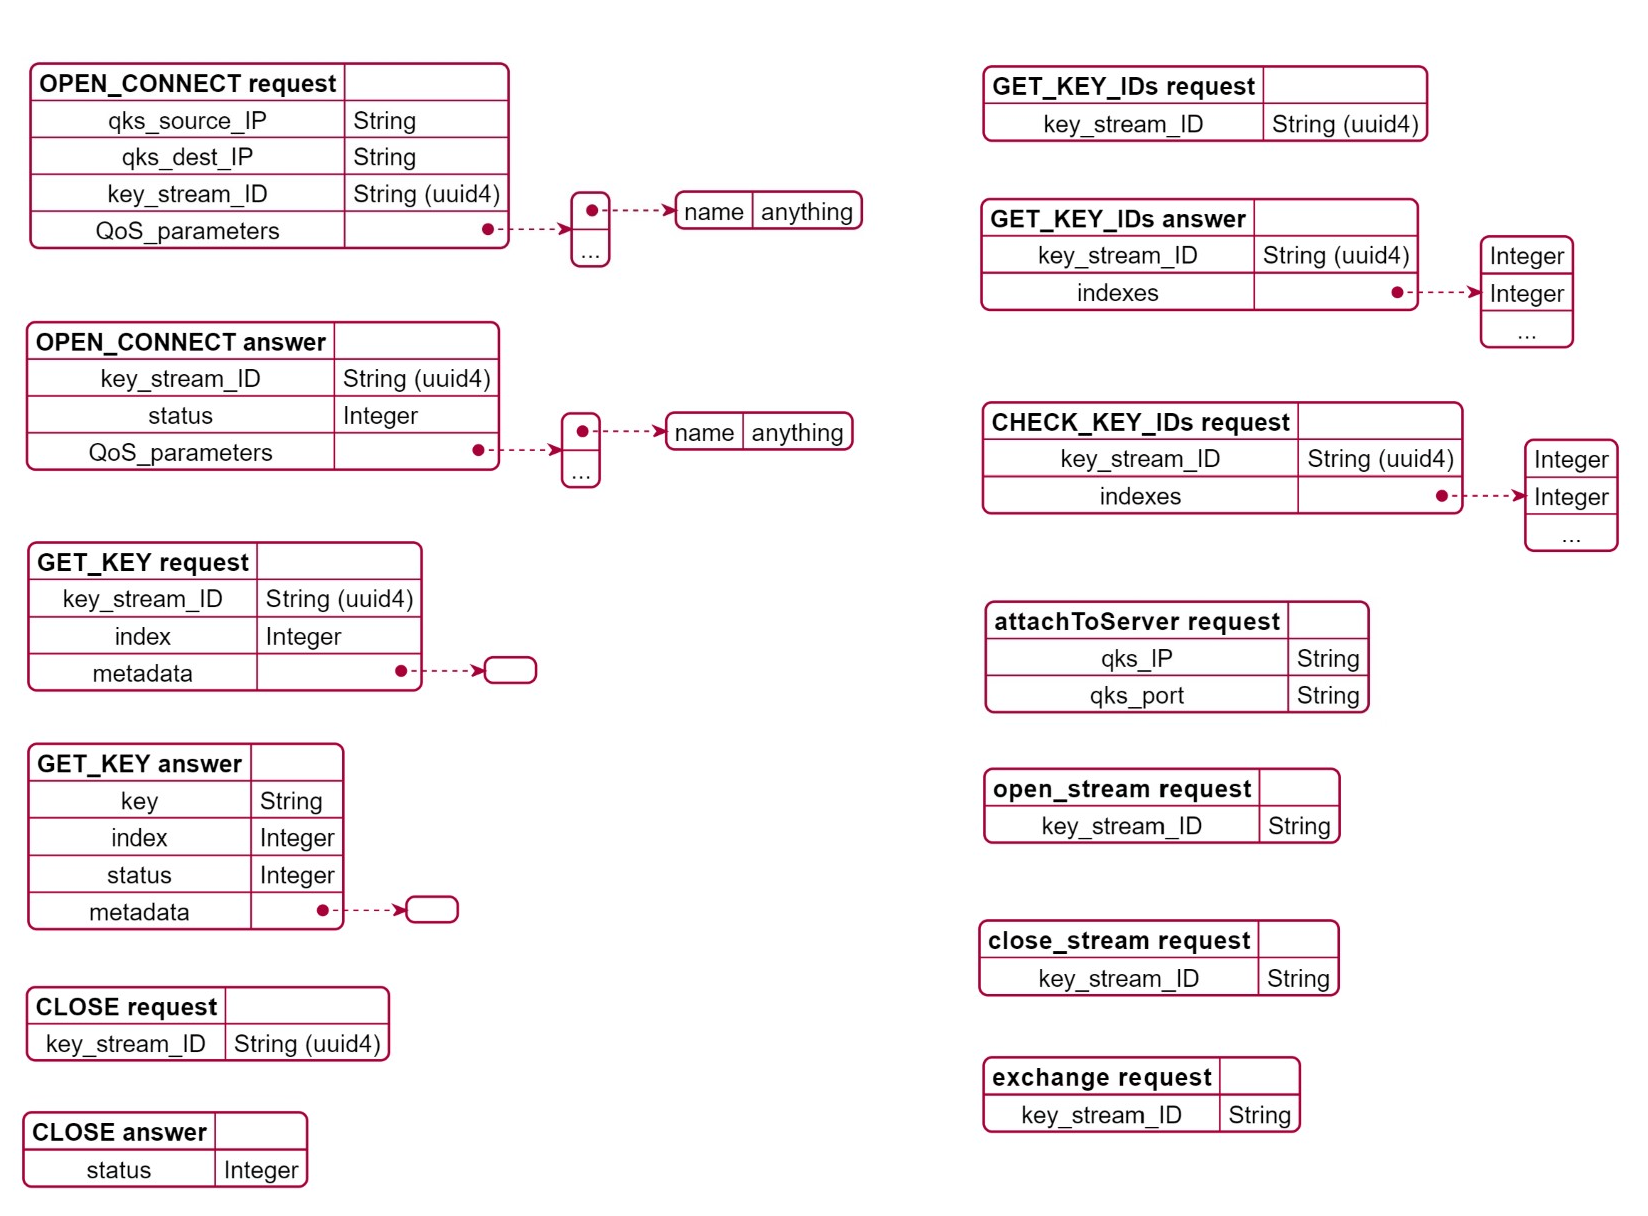
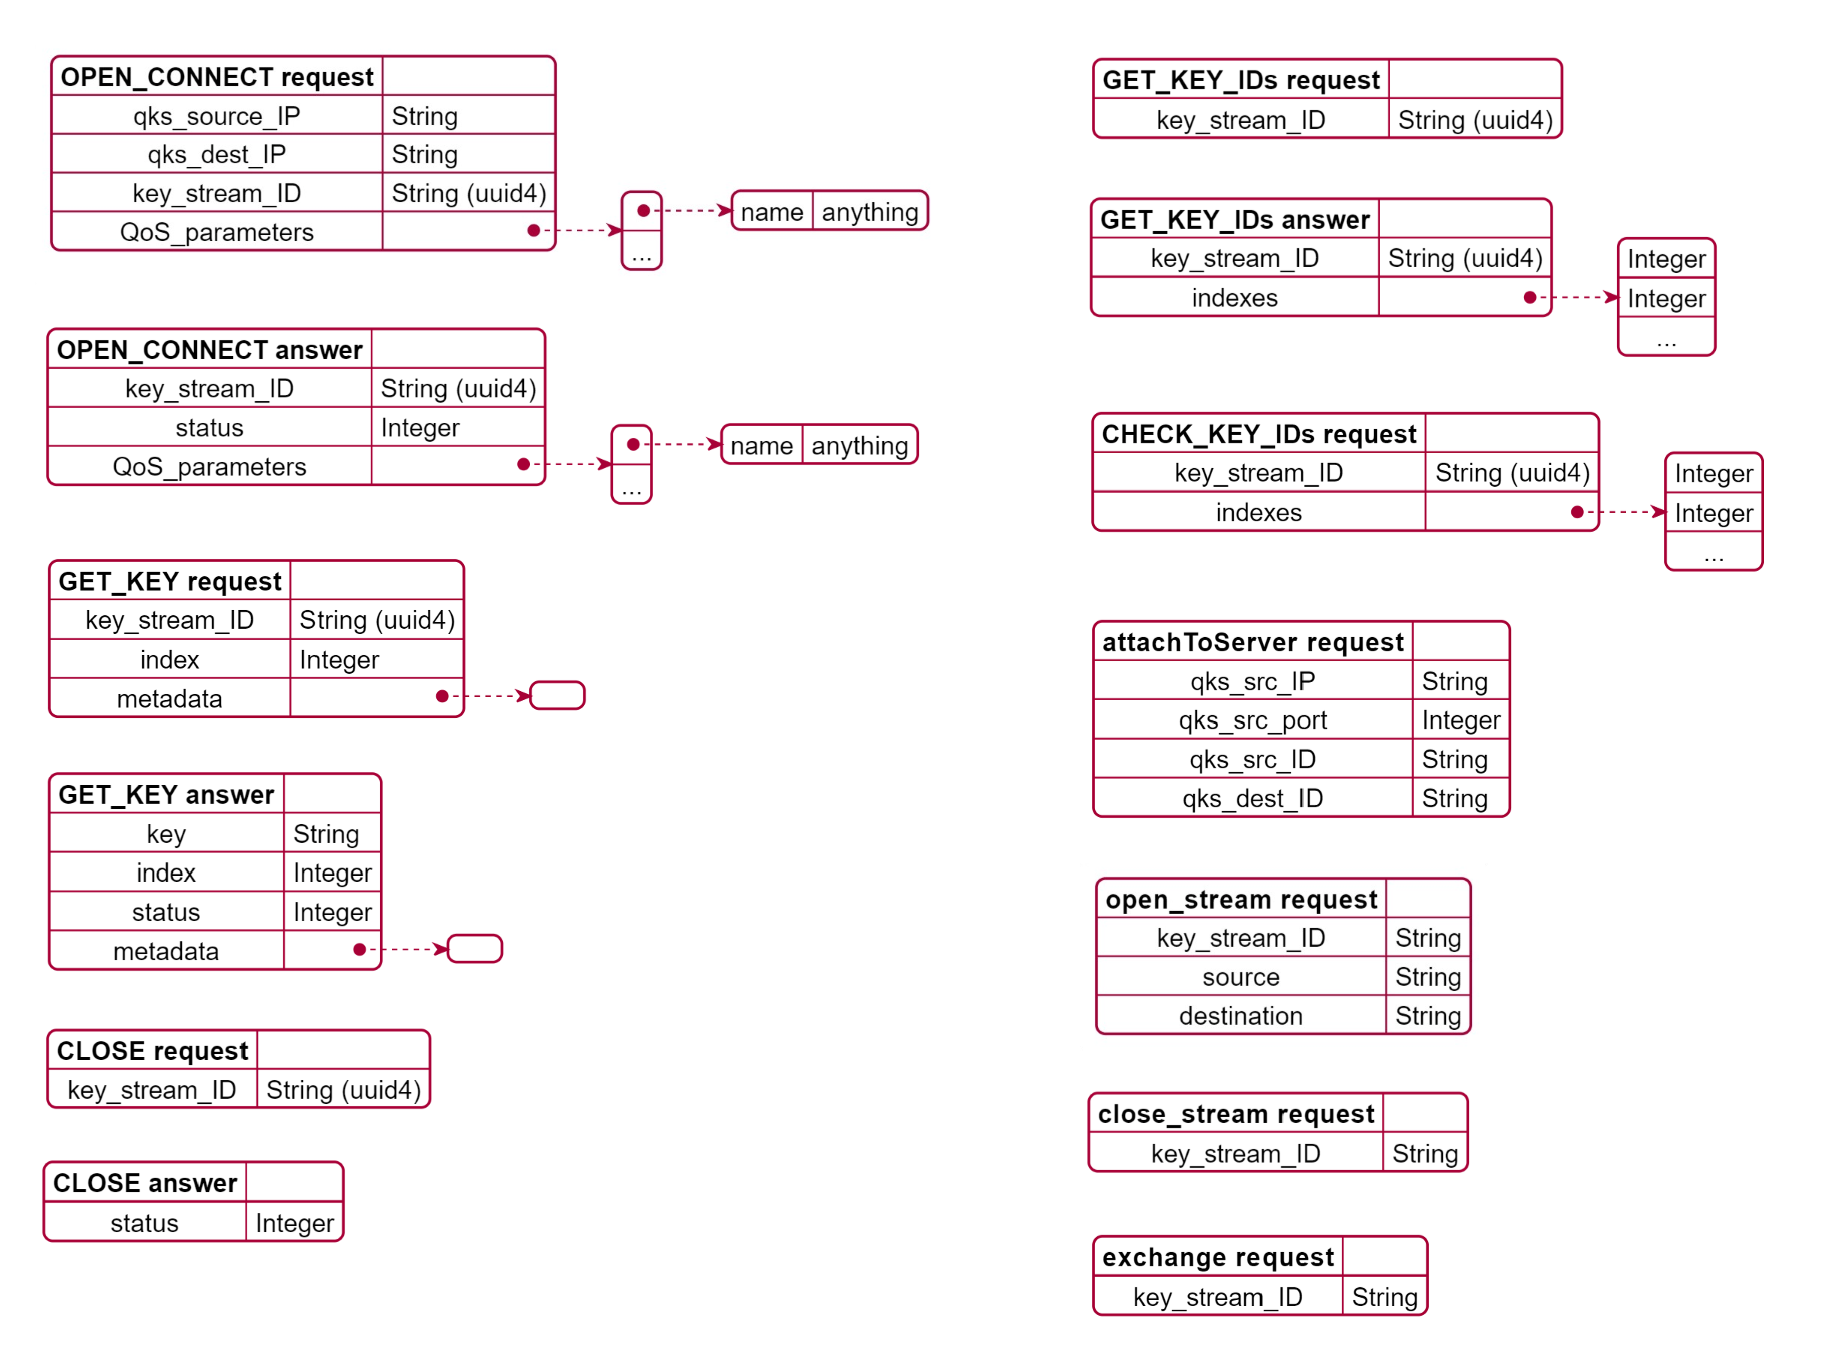
updated some module jsons

Changed region(s): [[0.0, 0.0312, 0.5261, 1.0], [0.588, 0.0312, 0.9903, 0.9688]]

diff --git a/docs/APIs.md b/docs/APIs.md
@@ -336,8 +336,10 @@
 @startjson
 {
     "**attachToServer request**":"",
-    "qks_IP" : "String",
-    "qks_port" : "String"
+    "qks_src_IP" : "String",
+    "qks_src_port" : "Integer",
+    "qks_src_ID" : "String",
+    "qks_dest_ID" : "String"
 }
 @endjson
 

diff --git a/docs/DB_model.md b/docs/DB_model.md
@@ -93,7 +93,7 @@
 "<color:green>**key_streams**" : "", 
   	"_id": "String (uuid4) ", 
 	"available_keys" : ["String", "..."], 
-	"source_id" : "String", 
+	"src_id" : "String", 
 	"dest_id" : "String", 
 	"qos" : {
 		"key_lenght" : "integer",
